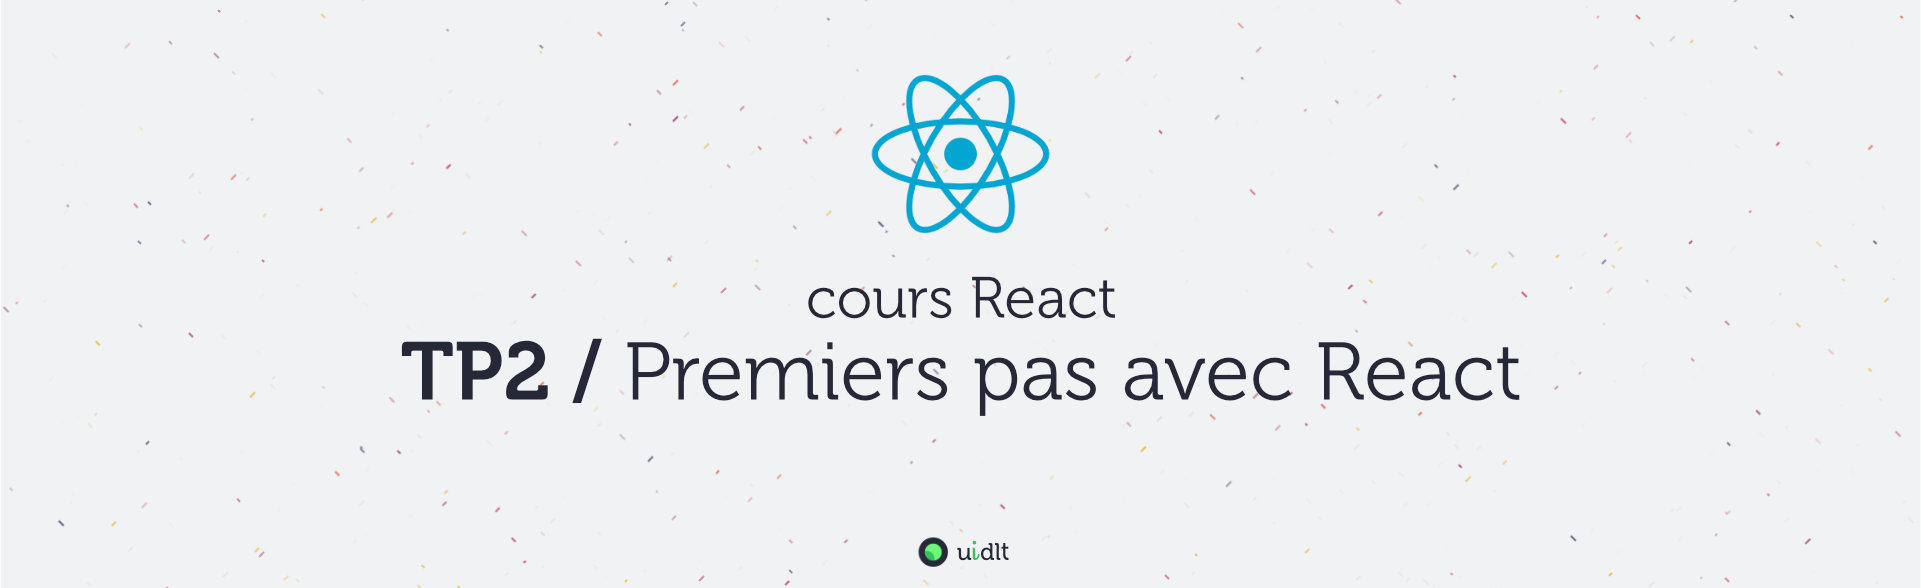
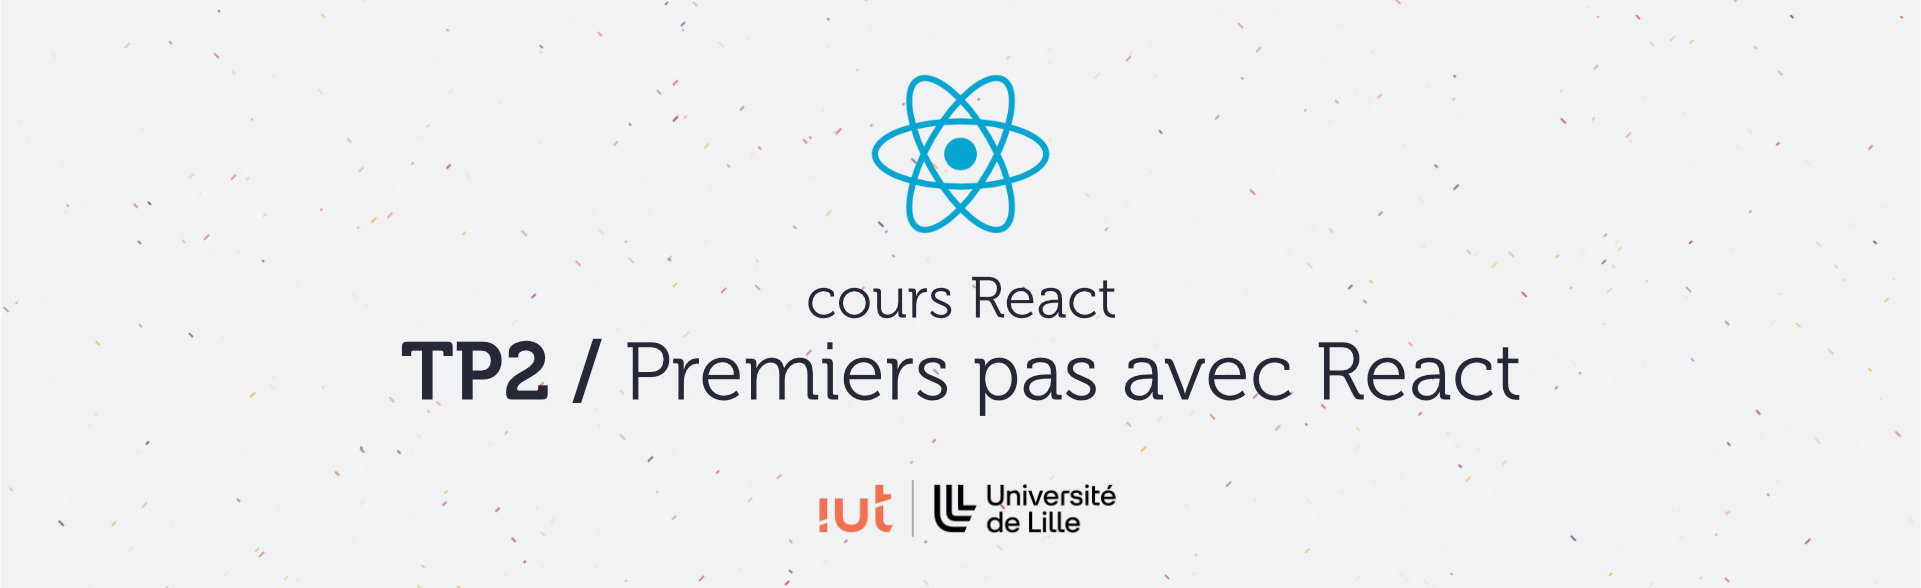
cours-iut: maj header et preparatifs

Changed region(s): [[0.406, 0.8265, 0.5934, 0.9796]]

diff --git a/A-preparatifs.md b/A-preparatifs.md
@@ -15,27 +15,27 @@ Il va vous servir de base pour ce nouveau TP.
 
 1. **Commencez par faire un fork de ce TP :**
 	- soit en cliquant sur le bouton `"Créer une divergence"` (_`"Fork"` sur la version anglaise de gitlab_)
-	- soit en vous rendant directement sur https://framagit.org/cours-react/tp2/-/forks/new
+	- soit en vous rendant directement sur https://gitlab.univ-lille.fr/react/tp2/-/forks/new
 
 	**⚠ ATTENTION :** Choisissez de placer votre fork **dans VOTRE profil utilisateur** (`namespace`) \
 	et vérifiez que le repo est **bien en mode "private"** (`Visibility Level`)
 
-2. **Ajoutez moi en tant que "reporter" pour que j'ai accès à votre code :**
+2. **Ajoutez votre encadrant de TP en tant que "reporter" pour qu'il ait accès à votre code :**
 	- dans le menu de gauche, cliquez sur **`Manage`** &gt; **`Members`** (`Gestion` &gt; `Membres` _si vous êtes sur la VF de gitlab_)
 	- cliquez sur le bouton en haut à droite **`"Invite members"`** (`Inviter des membres`)
-	- entrez comme **nom d'utilisateur** mon username : `@tf`
+	- entrez comme **nom d'utilisateur** celui de votre encadrant de TP (`@gery.casiez` ou `@thomas.fritsch`)
 	- ... et `"reporter"` comme **rôle**.
 
-3. **Récupérez les fichiers de ce TP grâce à Git : clonez votre fork dans un dossier de votre choix** :
+3. **Récupérez les fichiers de ce TP grâce à Git : clonez ce repo dans un dossier de votre choix** :
 	```bash
 	mkdir ~/tps-react
-	git clone https://framagit.org/<votre-username>/tp2.git ~/tps-react/tp2
+	git clone https://gitlab.univ-lille.fr/<votre-username>/tp2.git ~/tps-react/tp2
 	```
 	> _**NB1 :** Comme pour le TP1, ici je clone dans mon dossier `/home/thomas/tps-react/tp2`. **Si vous êtes sous Windows faites attention au sens des slashs et au caractère `"~"`** qui représente le dossier de l'utilisateur sur système unix : utilisez **Git bash** (qui comprend cette syntaxe) ou si vous tenez vraiment à utiliser **cmd** ou **powershell** pensez à adapter la commande !_
 
-	> _**NB2 :** Comme pour le TP1 aussi, si vous préférez **cloner en SSH** pour ne pas avoir à taper votre mot de passe à chaque fois que vous clonerez un TP, renseignez votre clé SSH dans votre [compte utilisateur framagit](https://framagit.org/-/profile/keys) et clonez à partir de cette URL : `git@framagit.org:votre-username/tp2.git`_
+	> _**NB2 :** Comme pour le TP1 aussi, si vous préférez **cloner en SSH** pour ne pas avoir à taper votre mot de passe à chaque fois que vous clonerez un TP, renseignez votre clé SSH dans votre [compte utilisateur gitlab](https://gitlab.univ-lille.fr/-/profile/keys) et clonez à partir de cette URL : `git@gitlab.univ-lille.fr:votre-username/tp2.git`_
 
-4. **Ouvrez le projet dans VSCodium** (pour les différentes façon d'ouvrir le projet relisez les [instructions du TP1](https://framagit.org/cours-react/tp1/-/blob/master/A-preparatifs.md#a4-ouvrir-le-projet-dans-vscodium) )
+4. **Ouvrez le projet dans VSCodium** (pour les différentes façon d'ouvrir le projet relisez les [instructions du TP1](https://gitlab.univ-lille.fr/react/tp1/-/blob/cours-iut/A-preparatifs.md?ref_type=heads#a5-ouvrir-le-projet-dans-vscodium) )
 	```bash
 	codium ~/tps-react/tp2
 	```
@@ -49,6 +49,16 @@ Il va vous servir de base pour ce nouveau TP.
 	> _**NB :** Vous noterez qu'on ne précise pas les paquets à installer. npm va en effet les déterminer **automatiquement** à partir du contenu du fichier `package.json` et plus particulièrement à partir des sections `"dependencies"` et `"devDependencies"` qui indiquent quels sont les paquets qui ont été installés précédemment._
 	>
 	> **Magique !** 🙌
+
+6. **Avant de vous lancer dans ce TP, prenez 5 à 10 minutes pour lire le code contenu dans le dossier `/src`** et comparez le avec votre code du précédent TP.
+
+	**C'est important de bien comprendre le code qui vous est fourni car il utilise un certain nombre de syntaxes de base qu'il vous faut maîtriser pour être à l'aise dans la suite du TP** : si des points ne sont pas clairs interrogez votre encadrant.e de TP !
+
+	**Attention : si vous n'aviez pas eu le temps de terminer le précédent TP**, portez une attention toute particulière aux fichiers :
+	- `renderElement.js`
+	- `renderImg.js`
+	- `renderVideoList.js`
+	- et `renderVideoItem.js`
 
 
 ## A.2. Configuration de Prettier
